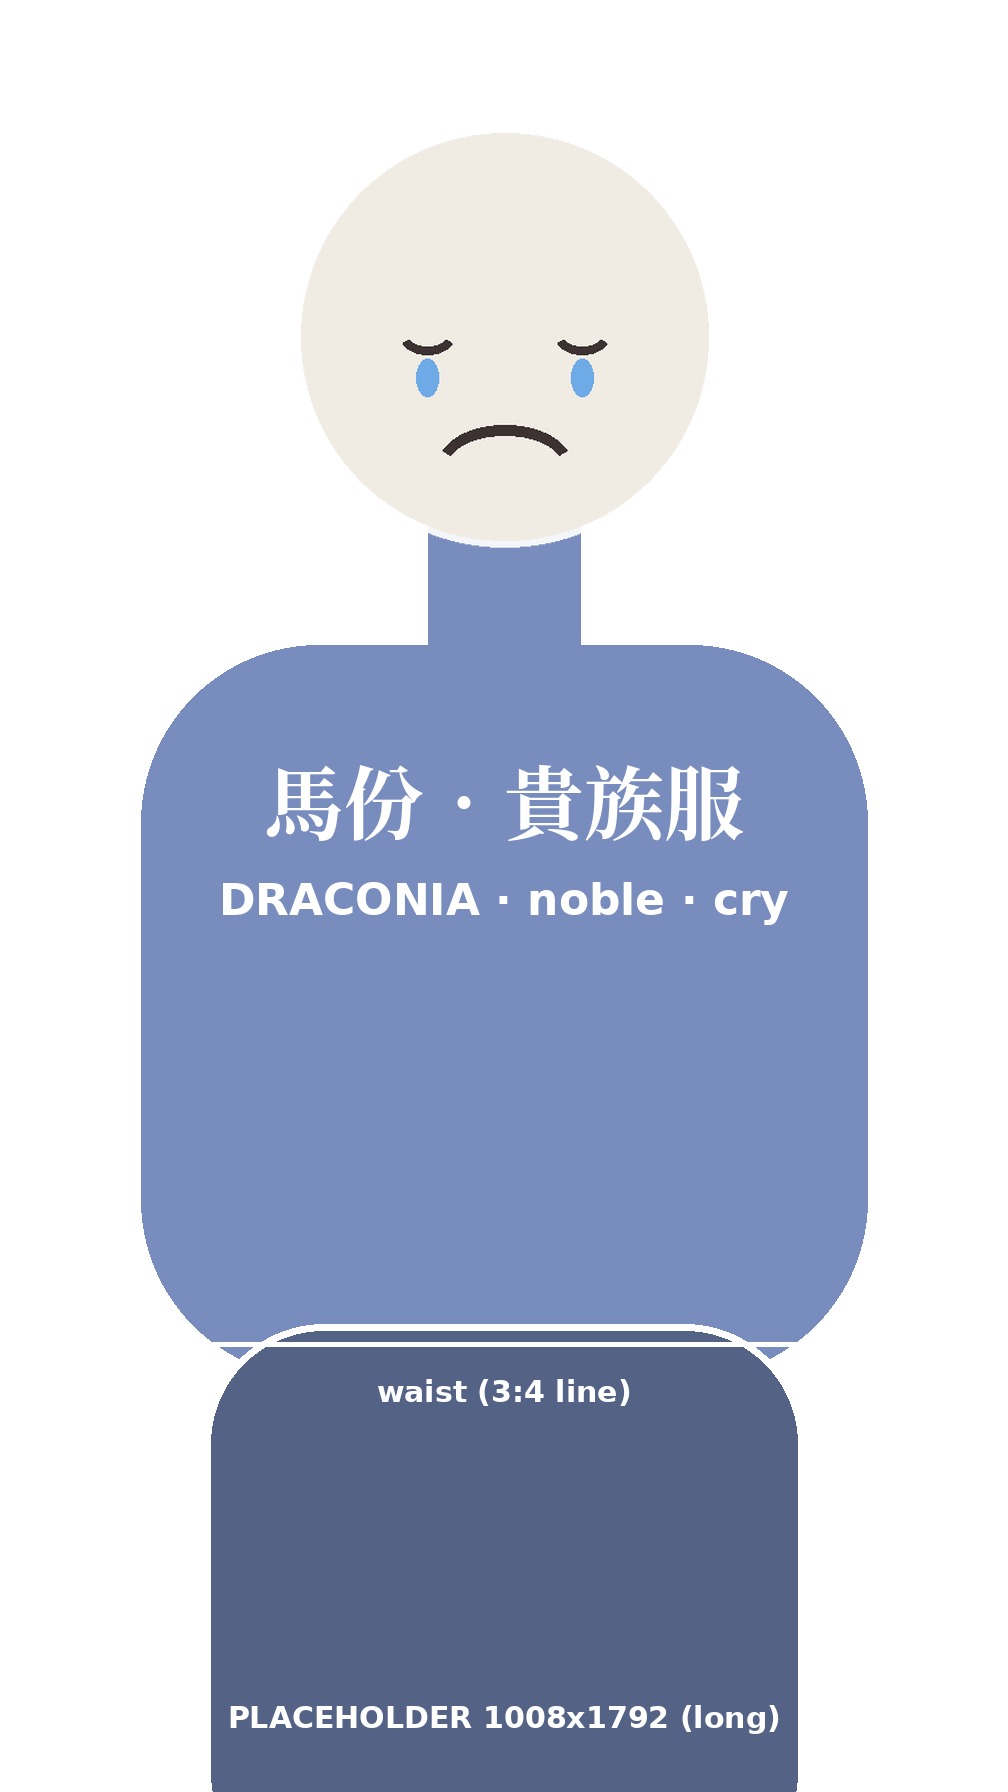
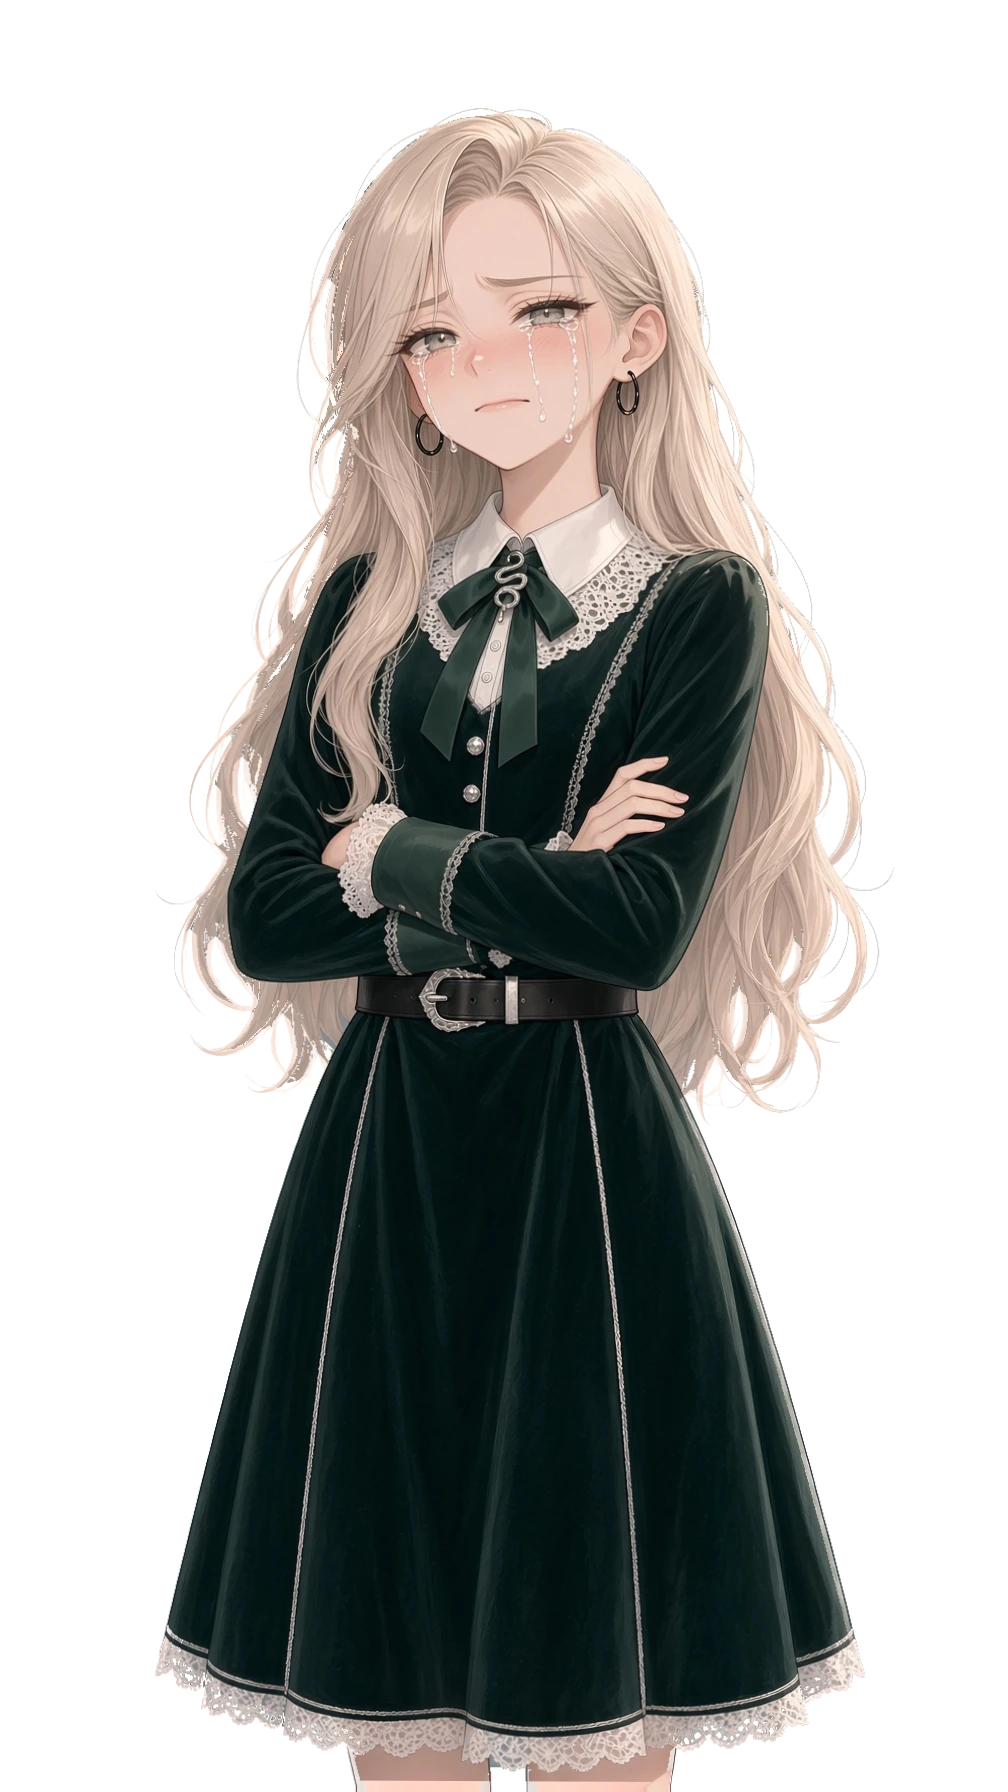
v0.4.2：馬份正式立繪（貴族服、史萊哲林校服）與新頭像
Claude-Session: https://claude.ai/code/session_01PBz3XvQT9DB7un91vn9J3W

diff --git a/tools/avatar_from_sprite.py b/tools/avatar_from_sprite.py
@@ -1,5 +1,5 @@
 # 用正式立繪裁出對話紀錄的圓形頭像（256x256），覆蓋 assets/avatar/<角色id>.png
-#   python3 tools/avatar_from_sprite.py draconia draconia/noble/normal.webp 590 450 520
+#   python3 tools/avatar_from_sprite.py draconia draconia/noble/normal.webp 508 318 400
 #   參數：角色id、立繪路徑（assets/chara/ 之下）、臉部中心 x、y、裁切邊長（原圖像素）
 # 同一個角色的參數換表情、換服裝都通用（同尺寸）。長立繪 1008x1792 的頭頂約 y≈126、下巴約 y≈546（舊 1200x1600 的 0.84 倍）。
 from PIL import Image, ImageDraw

diff --git a/README.md b/README.md
@@ -1,4 +1,4 @@
-# 《鉑金色的馬份》｜蛇與獅之歌　v0.4.1
+# 《鉑金色的馬份》｜蛇與獅之歌　v0.4.2
 
 哈利波特同人視覺小說。網頁版，手機、電腦都能玩，直向／橫向自動切換。
 
@@ -38,6 +38,7 @@
 - 設定（同一頁）：文字速度、自動速度、只略過已讀、三種音量（每 1 點調整）
 
 ## 版本
+- **v0.4.2**：換上馬份正式立繪（貴族服、史萊哲林校服各 11 個表情；冬裝仍是佔位圖），頭像從新立繪重新裁切。
 - **v0.4.1**：立繪規劃改版：馬份取消黑袍（分院前穿貴族服）；榮恩、妙麗的分院前服裝改名為便服（casual），三人新增冬裝（winter，學院校服＋頸巾）；奈威、克拉、高爾改為有便服與學院校服兩套；新增飛七立繪（filch）；摩金夫人、奧利凡德、胡奇夫人改為黑影立繪；立繪規格升為 v2.0（1200×2134 膝上立繪，比例不變）；文件同步。第一～六章小修：CG #3 與第一章服裝描寫、活米村換長袍的旁白、潘西改為及肩直髮、第五章飛七上台，並補上奈威、克拉、高爾的換裝。
 - **v0.4.0**：第一～六章小修：羈絆數值重新分配（一般選項 ±1、關鍵選擇 +2～+5，第六章分路門檻提高到 65）、海德薇改為皇冠譯名「嘿美」、第一章路線 B 魔杖店補上店內描寫、第三章與第四章部分對白修改；大廳背景分成白天（great_hall_day）與晚上（great_hall_night）兩張（佔位），舊的 great_hall 移除。
 - **v0.3.9**：面板元件改版：按鈕改成長六角形（尖端金菱釘、內縮細線、紙紋與磨舊的邊）；設定拉條改成魔杖軌道＋黃銅菱形鈕（鑲墨綠寶石）；儲思盆章節格、存檔格改成削角長牌，章號放進六角小籤，「已讀」改成墨綠蠟封；工具列存檔／讀檔換新圖示，所有圖示下面加小字（對話框高度不變）；新章節過場加上金色角飾內框、星芒、由中間畫開的裝飾線、飄動的金色微塵；圖鑑一般 CG 擴充為 60 格（10 頁），頁碼旁加頁數小菱形。新增 ？？？ 共用黑影角色 unknown。
